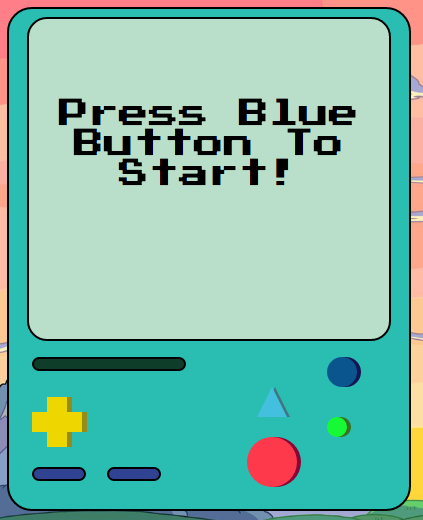
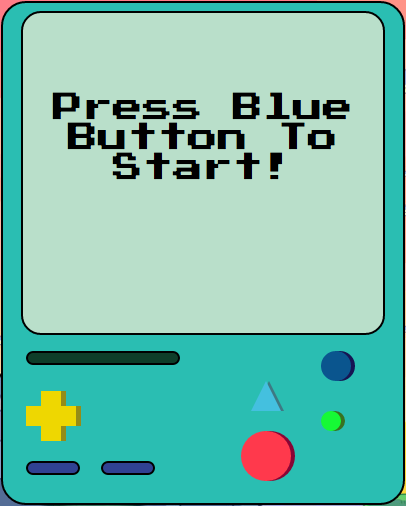
sizing and image changing for website

diff --git a/portfolio.html b/portfolio.html
@@ -43,7 +43,7 @@
 		<div class="row">
 			<div class="col-sm-6 col-md-10 col-lg-10 col-lg-offset-1">
 				<div class="jumbotron jum-background">
-					<img src="/img/calculator_img.png" alt="...">
+					<img id="header_img" src="/img/calculator_img.png" alt="...">
 					<div class="caption">
 						<h3>Calculator</h3>
 						<p>This is a simple calculator that I created.</p>

diff --git a/css/css_portfolio.css b/css/css_portfolio.css
@@ -7,6 +7,11 @@ body {
     width: 70px;
 }
 
+#header_img {
+  height: 300px;
+  width: 200px;
+}
+
 .thumbnail {
     border-width: 0px;
     border-color: rgba(0, 0, 0, .3);
